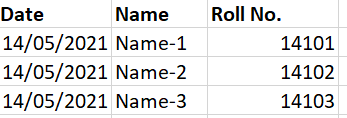
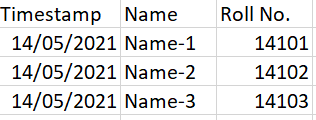
New pictures

diff --git a/tool/templates/attendance_upload_file.html b/tool/templates/attendance_upload_file.html
@@ -77,7 +77,7 @@
         Though the required inputs are already specified in the form, there are
         som restrictions on the input given. For instance :-<br /><br />
         In both the files, there should atleast be a roll number column and in
-        today's attendance file must contain a date colmun and
+        today's attendance file must contain a date column and
         <b>they must be written</b> as: <br /><br />
         Today's Attendance File
         <img class="mt-1" src="{{ url_for('static', filename='day.png') }}" />
@@ -86,7 +86,7 @@
         <br /><br />
         <img src="{{ url_for('static', filename='register.png') }}" /> <br />
         <b>Note: Your attendance register should only contain one sheet.</b>
-        The order of the columns isn't important and all the remaining colmuns
+        The order of the columns isn't important and all the remaining columns
         (if any) will be added as it is. Your output file should look like this:
         <br /><br />
         <img src="{{ url_for('static', filename='result.png') }}" />

diff --git a/tool/functions.py b/tool/functions.py
@@ -9,13 +9,13 @@ def taking_Attendance(Upload_folder, todays_attendace, attendance_register, date
     columns = list(attendance_register.columns.values)
     total_students = list(attendance_register['Roll No.'])
     students = list(todays_attendace['Roll No.'])
-    date = list(todays_attendace['Date'])
+    date = list(todays_attendace['Timestamp'])
     todays_attendace['Date'] = [str(i).split(' ')[0] for i in date]
-    date = list(todays_attendace['Date'])
+    date = list(todays_attendace['Timestamp'])
     date = list(set(date))
     date.sort()
     for i in date:
-        presented_total_students = todays_attendace['Date'] == i
+        presented_total_students = todays_attendace['Timestamp'] == i
         presented_total_students = todays_attendace.loc[presented_total_students]
         presented_total_students = presented_total_students['Roll No.'].to_list(
         )
